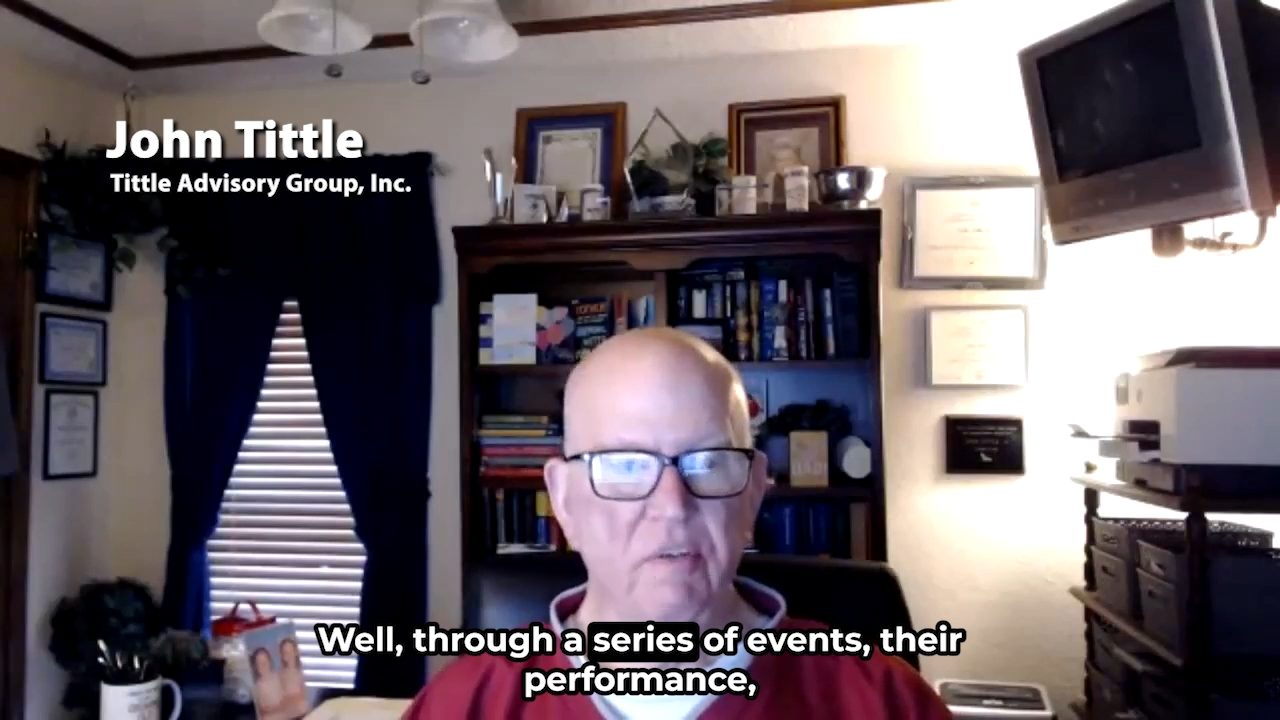
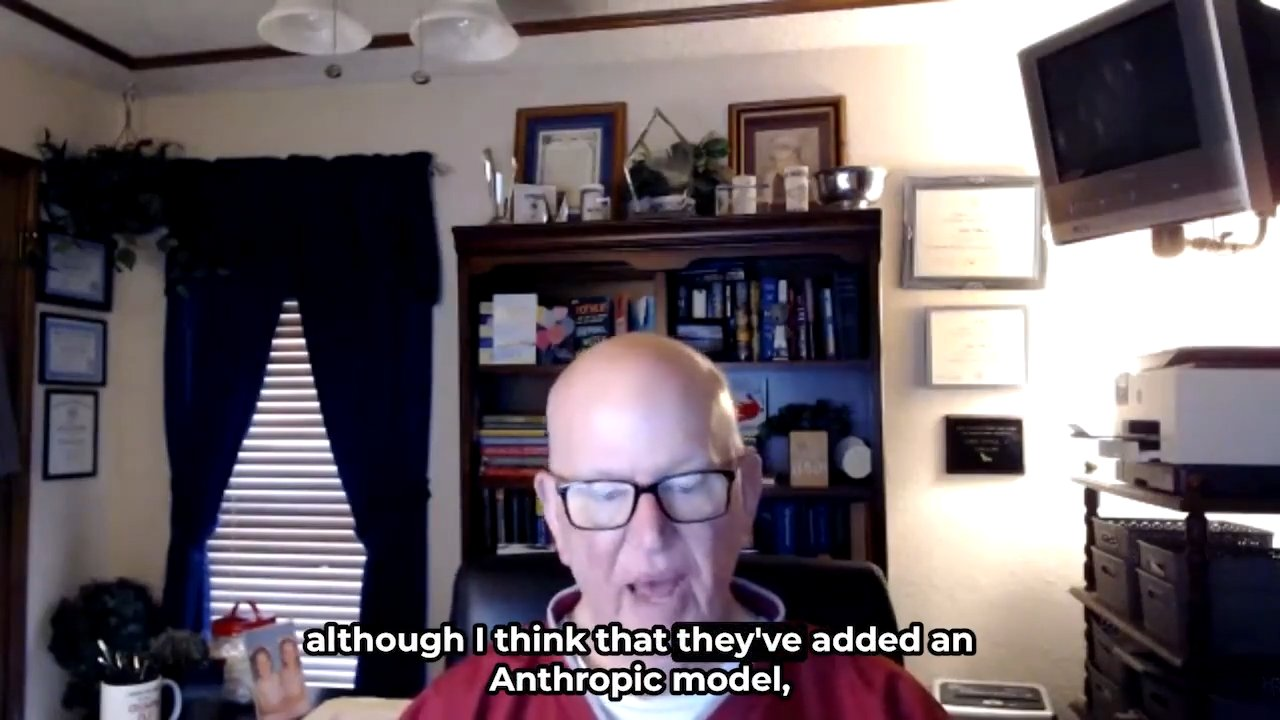
Redesign Client Video Testimonials section + fixes
- Featured 2x2 layout (no empty cell), hover-to-preview, duration chips, depth glows
- Fix duplicate gold divider above the section (hero already renders one)
- Correct Neal Bosshardt's company to WeEatClay
- Refresh 3 posters to later frames so they no longer duplicate the videos' lower-thirds

Changed region(s): [[0.2188, 0.4278, 0.7812, 1.0], [0.0625, 0.1528, 0.3125, 0.275], [0.4062, 0.0, 0.4688, 0.0306]]

diff --git a/src/pages/work.jsx b/src/pages/work.jsx
@@ -1,4 +1,4 @@
-import React, { useMemo, useState } from 'react';
+import React, { useMemo, useRef, useState } from 'react';
 import { motion, AnimatePresence } from 'framer-motion';
 import { createPortal } from 'react-dom';
 import { Link } from 'react-router-dom';
@@ -196,13 +196,91 @@ function GridCard({ study, index }) {
 // posters were captured from the source films. To add/replace: upload to the
 // site-videos/case-studies/ bucket and update `src`/`poster` below.
 const CS_VIDEO = 'https://ulfnzcniivkjtfaoxfmi.supabase.co/storage/v1/object/public/site-videos/case-studies';
+// `company` is the headline on each card; `person` is the speaker underneath.
 const CASE_STUDY_VIDEOS = [
-  { key: 'muscle-works', name: 'Muscle Works', role: 'Client Testimonial', poster: '/images/case-studies-video/muscle-works.jpg', src: `${CS_VIDEO}/muscle-works.mp4` },
-  { key: 'sunflower', name: 'Ashley Buckner', role: 'SunFlower Movement', poster: '/images/case-studies-video/sunflower-movement.jpg', src: `${CS_VIDEO}/sunflower-movement.mp4` },
-  { key: 'paasch', name: 'Bobby Paasch', role: 'Paasch Construction & Consulting', poster: '/images/case-studies-video/paasch-construction.jpg', src: `${CS_VIDEO}/paasch-construction.mp4` },
-  { key: 'tittle', name: 'John Tittle', role: 'Tittle Advisory Group', poster: '/images/case-studies-video/john-tittle.jpg', src: `${CS_VIDEO}/john-tittle.mp4` },
-  { key: 'bosshardt', name: 'Neal Bosshardt', role: 'Client Testimonial', poster: '/images/case-studies-video/neal-bosshardt.jpg', src: `${CS_VIDEO}/neal-bosshardt.mp4` },
+  { key: 'muscle-works', company: 'Muscle Works', person: 'Jason Painter', duration: '2:03', poster: '/images/case-studies-video/muscle-works.jpg', src: `${CS_VIDEO}/muscle-works.mp4` },
+  { key: 'sunflower', company: 'SunFlower Movement', person: 'Ashley Buckner', duration: '2:08', poster: '/images/case-studies-video/sunflower-movement.jpg', src: `${CS_VIDEO}/sunflower-movement.mp4` },
+  { key: 'paasch', company: 'Paasch Construction & Consulting', person: 'Bobby Paasch', duration: '1:38', poster: '/images/case-studies-video/paasch-construction.jpg', src: `${CS_VIDEO}/paasch-construction.mp4` },
+  { key: 'tittle', company: 'Tittle Advisory Group', person: 'John Tittle', duration: '5:30', poster: '/images/case-studies-video/john-tittle.jpg', src: `${CS_VIDEO}/john-tittle.mp4` },
+  { key: 'bosshardt', company: 'WeEatClay', person: 'Neal Bosshardt', duration: '5:00', poster: '/images/case-studies-video/neal-bosshardt.jpg', src: `${CS_VIDEO}/neal-bosshardt.mp4` },
 ];
+
+/**
+ * Testimonial card. Shows the poster still, then silently plays the clip on hover/focus
+ * (muted + looped) as a live preview; clicking opens the full modal with sound.
+ * `preload="none"` keeps the videos off the wire until the user actually hovers.
+ */
+function TestimonialCard({ item, featured = false, onOpen }) {
+  const vidRef = useRef(null);
+  const [preview, setPreview] = useState(false);
+
+  const start = () => {
+    setPreview(true);
+    const v = vidRef.current;
+    if (v) { try { v.currentTime = 0; const p = v.play(); if (p) p.catch(() => {}); } catch { /* ignore */ } }
+  };
+  const stop = () => {
+    setPreview(false);
+    const v = vidRef.current;
+    if (v) { try { v.pause(); } catch { /* ignore */ } }
+  };
+
+  return (
+    <button
+      type="button"
+      onClick={() => onOpen(item)}
+      onMouseEnter={start}
+      onMouseLeave={stop}
+      onFocus={start}
+      onBlur={stop}
+      aria-label={`Play ${item.company} testimonial with ${item.person}`}
+      className={`group relative overflow-hidden rounded-xl border border-white/10 bg-[#0f0f14] text-left transition-all duration-300 hover:-translate-y-1 hover:border-[#BF953F]/60 hover:shadow-[0_18px_40px_-12px_rgba(0,0,0,.8)] ${
+        featured ? 'aspect-video sm:col-span-2 lg:row-span-2 lg:aspect-auto' : 'aspect-video'
+      }`}
+    >
+      <img
+        src={item.poster}
+        alt={`${item.company} — ${item.person}`}
+        loading="lazy"
+        decoding="async"
+        className={`absolute inset-0 h-full w-full object-cover transition-opacity duration-500 ${preview ? 'opacity-0' : 'opacity-100'}`}
+      />
+      <video
+        ref={vidRef}
+        src={item.src}
+        poster={item.poster}
+        muted
+        loop
+        playsInline
+        preload="none"
+        aria-hidden="true"
+        tabIndex={-1}
+        className={`absolute inset-0 h-full w-full object-cover transition-opacity duration-500 ${preview ? 'opacity-100' : 'opacity-0'}`}
+      />
+      <div className="pointer-events-none absolute inset-0 bg-gradient-to-t from-black/90 via-black/25 to-transparent" />
+
+      {/* duration chip */}
+      <span className="pointer-events-none absolute right-3 top-3 rounded-full bg-black/65 px-2.5 py-1 font-mono text-[10px] tracking-wider text-white/80 backdrop-blur-sm">
+        {item.duration}
+      </span>
+
+      {/* play button — recedes while previewing */}
+      <span
+        aria-hidden="true"
+        className={`pointer-events-none absolute left-1/2 top-1/2 flex -translate-x-1/2 -translate-y-1/2 items-center justify-center rounded-full bg-[#BF953F] text-[#0b0b0c] shadow-lg transition-all duration-300 group-hover:scale-110 ${
+          featured ? 'h-16 w-16' : 'h-12 w-12'
+        } ${preview ? 'opacity-0 scale-90' : 'opacity-100'}`}
+      >
+        <svg viewBox="0 0 24 24" className={`ml-0.5 ${featured ? 'h-7 w-7' : 'h-5 w-5'}`} fill="currentColor"><path d="M8 5v14l11-7z" /></svg>
+      </span>
+
+      <div className="pointer-events-none absolute inset-x-0 bottom-0 p-4">
+        <h3 className={`font-bold tracking-tight text-white ${featured ? 'text-xl sm:text-2xl' : 'text-base'}`}>{item.company}</h3>
+        <p className={`text-white/60 ${featured ? 'text-sm' : 'text-xs'}`}>{item.person}</p>
+      </div>
+    </button>
+  );
+}
 
 function VideoTestimonialModal({ item, onClose }) {
   if (!item) return null;
@@ -224,12 +302,12 @@ function VideoTestimonialModal({ item, onClose }) {
           </button>
           <div className="relative aspect-video bg-black">
             {item.youtube ? (
-              <iframe className="absolute inset-0 h-full w-full" src={`https://www.youtube.com/embed/${item.youtube}?autoplay=1&rel=0`} title={item.name} allow="autoplay; encrypted-media; fullscreen" allowFullScreen />
+              <iframe className="absolute inset-0 h-full w-full" src={`https://www.youtube.com/embed/${item.youtube}?autoplay=1&rel=0`} title={item.company} allow="autoplay; encrypted-media; fullscreen" allowFullScreen />
             ) : item.src ? (
               <video className="absolute inset-0 h-full w-full" src={item.src} poster={item.poster} controls autoPlay playsInline />
             ) : (
               <>
-                <img src={item.poster} alt={item.name} className="absolute inset-0 h-full w-full object-cover opacity-50" />
+                <img src={item.poster} alt={item.company} className="absolute inset-0 h-full w-full object-cover opacity-50" />
                 <div className="absolute inset-0 flex items-center justify-center">
                   <p className="font-mono text-xs uppercase tracking-[0.2em] text-gold-shine">Video coming soon</p>
                 </div>
@@ -237,8 +315,8 @@ function VideoTestimonialModal({ item, onClose }) {
             )}
           </div>
           <div className="p-5">
-            <h3 className="text-lg font-bold tracking-tight text-white">{item.name}</h3>
-            <p className="text-sm text-white/55">{item.role}</p>
+            <h3 className="text-lg font-bold tracking-tight text-white">{item.company}</h3>
+            <p className="text-sm text-white/55">{item.person}</p>
           </div>
         </motion.div>
       </motion.div>
@@ -306,38 +384,34 @@ export default function Work() {
       </section>
 
       {/* ===== CLIENT VIDEO TESTIMONIALS ===== */}
-      <section className="bg-[#080a0d] py-[clamp(40px,7vw,80px)]">
-        <div className="mx-auto max-w-7xl px-4 sm:px-6 lg:px-8">
-          <div className="mb-10 max-w-2xl">
-            <Eyebrow>In Their Words</Eyebrow>
-            <h2 className="mt-4 text-[clamp(26px,3.6vw,40px)] font-bold tracking-tight text-white">Client video testimonials</h2>
-            <p className="mt-3 text-white/55">Hear directly from the business owners behind the results.</p>
+      <section className="relative overflow-hidden bg-[#080a0d] py-[clamp(48px,8vw,96px)]">
+        {/* Depth: subtle dot-grid + gold ambient glows (per the imagery guide).
+            No top hairline here — the hero section already renders one directly above. */}
+        <div aria-hidden="true" className="pointer-events-none absolute inset-0 opacity-[0.35]" style={{ backgroundImage: 'radial-gradient(circle, rgba(255,255,255,.07) 1px, transparent 1px)', backgroundSize: '22px 22px' }} />
+        <div aria-hidden="true" className="pointer-events-none absolute -left-28 top-4 h-96 w-96 rounded-full blur-3xl" style={{ background: 'radial-gradient(circle, rgba(191,149,63,.16) 0%, transparent 70%)' }} />
+        <div aria-hidden="true" className="pointer-events-none absolute -right-28 bottom-0 h-96 w-96 rounded-full blur-3xl" style={{ background: 'radial-gradient(circle, rgba(191,149,63,.10) 0%, transparent 70%)' }} />
+
+        <div className="relative z-10 mx-auto max-w-7xl px-4 sm:px-6 lg:px-8">
+          <div className="mb-10 flex flex-wrap items-end justify-between gap-4">
+            <div className="max-w-2xl">
+              <Eyebrow>In Their Words</Eyebrow>
+              <h2 className="mt-4 text-[clamp(26px,3.6vw,40px)] font-bold tracking-tight text-white">Client video testimonials</h2>
+              <p className="mt-3 text-white/55">Hear directly from the business owners behind the results.</p>
+            </div>
+            <p className="font-mono text-[11px] uppercase tracking-[0.18em] text-white/35">Hover to preview · Click to watch</p>
           </div>
-          <div className="grid grid-cols-1 gap-6 sm:grid-cols-2 lg:grid-cols-3">
+
+          <motion.div
+            initial={{ opacity: 0, y: 20 }}
+            whileInView={{ opacity: 1, y: 0 }}
+            transition={{ duration: 0.6, ease: [0.16, 1, 0.3, 1] }}
+            viewport={{ once: true, margin: '-80px' }}
+            className="grid grid-cols-1 gap-5 sm:grid-cols-2 lg:grid-cols-4"
+          >
             {CASE_STUDY_VIDEOS.map((v, i) => (
-              <motion.button
-                key={v.key}
-                type="button"
-                onClick={() => setSelectedVideo(v)}
-                initial={{ opacity: 0, y: 20 }}
-                whileInView={{ opacity: 1, y: 0 }}
-                transition={{ duration: 0.5, delay: i * 0.06 }}
-                viewport={{ once: true }}
-                className="group relative aspect-video overflow-hidden rounded-xl border border-white/10 bg-[#0f0f14] text-left transition-all duration-300 hover:-translate-y-1 hover:border-[#BF953F]/60"
-                aria-label={`Play ${v.name} testimonial`}
-              >
-                <img src={v.poster} alt={`${v.name} — ${v.role}`} loading="lazy" decoding="async" className="absolute inset-0 h-full w-full object-cover transition-transform duration-700 group-hover:scale-105" />
-                <div className="absolute inset-0 bg-gradient-to-t from-black/90 via-black/30 to-transparent" />
-                <span aria-hidden="true" className="absolute left-1/2 top-1/2 flex h-14 w-14 -translate-x-1/2 -translate-y-1/2 items-center justify-center rounded-full bg-[#BF953F] text-[#0b0b0c] shadow-lg transition-transform duration-300 group-hover:scale-110">
-                  <svg viewBox="0 0 24 24" className="ml-0.5 h-6 w-6" fill="currentColor"><path d="M8 5v14l11-7z" /></svg>
-                </span>
-                <div className="absolute inset-x-0 bottom-0 p-4">
-                  <h3 className="text-base font-bold tracking-tight text-white">{v.name}</h3>
-                  <p className="text-xs text-white/60">{v.role}</p>
-                </div>
-              </motion.button>
+              <TestimonialCard key={v.key} item={v} featured={i === 0} onOpen={setSelectedVideo} />
             ))}
-          </div>
+          </motion.div>
         </div>
       </section>
 
